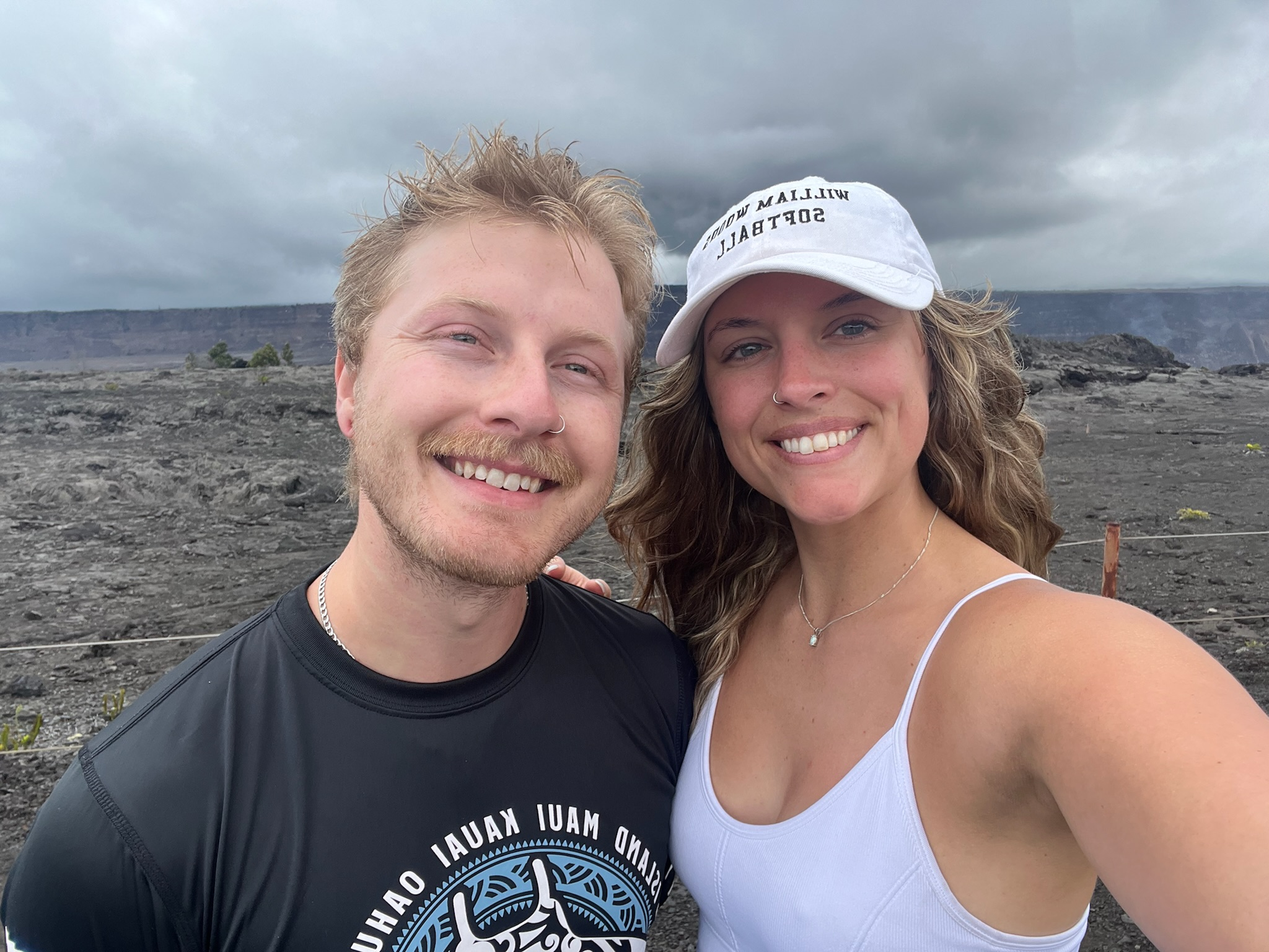
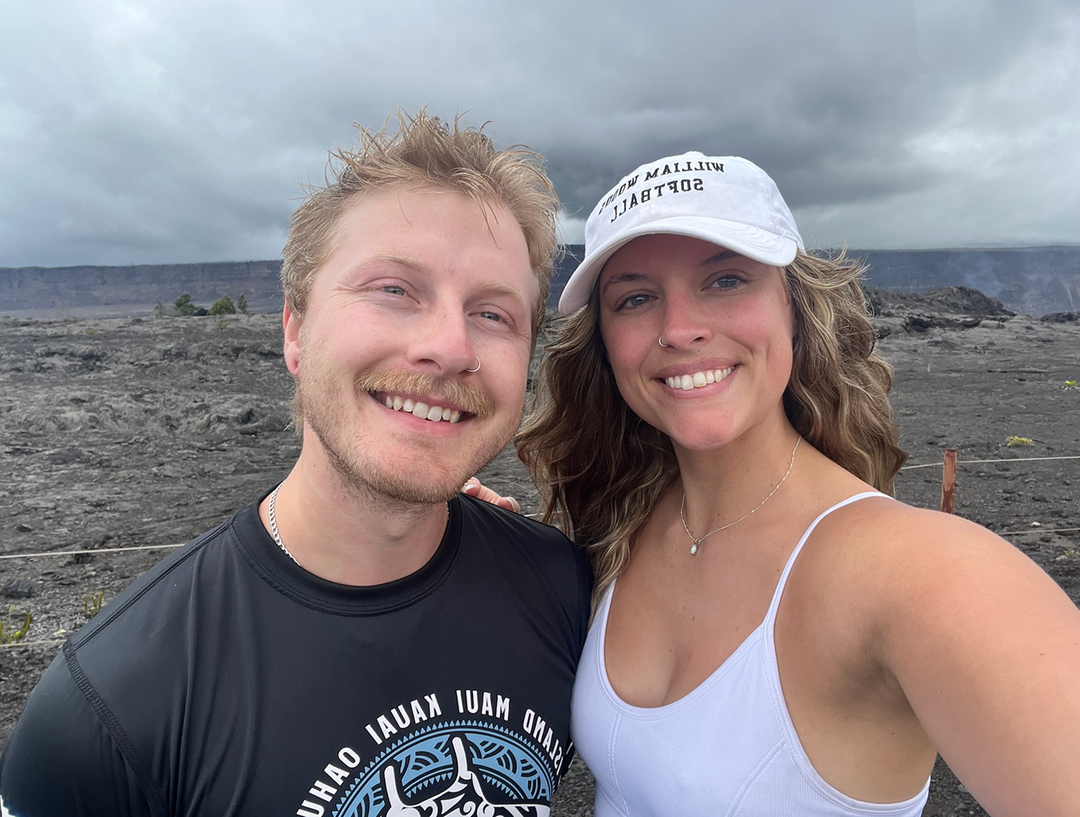
updated the second group of images again

diff --git a/src/routes/home/+page.svelte b/src/routes/home/+page.svelte
@@ -283,8 +283,8 @@ class:translate-y-0={rsvp}
                             <img src="storysnp2.png" alt="Sequoia National Park Sign" class="object-cover w-full  rounded-bl-2xl" loading="lazy"/>
                         </div>
                         <div class="grid gap-1">
-                            <img src="storybcnp.png" alt="Bryce Canyon National Park Sign" class="object-cover w-full rounded-tr-2xl" loading="lazy"/>
-                            <img src="storybcnp2.png" alt="Drew and Emma on a trail" class="object-cover w-full" loading="lazy"/>
+                            <img src="storybcnp2.png" alt="Drew and Emma on a trail" class="object-cover w-full rounded-tr-2xl" loading="lazy"/>
+                            <img src="storybcnp.png" alt="Bryce Canyon National Park Sign" class="object-cover w-full" loading="lazy"/>
                         </div>
                     </div>
                     <!-- <div bind:this={sectionRef2}></div> -->
@@ -342,11 +342,11 @@ class:translate-y-0={rsvp}
                 <div class="md:flex gap-4 items-center">
                     <div class="grid grid-cols-2 rounded-tr-2xl rounded-bl-2xl mb-4 gap-1 border border-black/20 md:w-5/12 ">
                         <div class="grid gap-1">
-                            <img src="storyhawaii.png" alt="Drew and Emma at Arches National Park" class="object-cover w-full h-full"/>
-                            <img src="storyhawaii2.png" alt="Drew and Emma at Arches National Park" class="object-cover w-full h-full rounded-bl-2xl"/>
+                            <img src="storyhawaii2.png" alt="Drew and Emma at Arches National Park" class="object-cover w-full h-full"/>
+                            <img src="storyhawaii3.png" alt="Drew and Emma at Arches National Park" class="object-cover w-full h-full rounded-bl-2xl"/>
                         </div>
                         <div class="grid gap-1">
-                            <img src="storyhawaii3.png" alt="Drew and Emma at Arches National Park" class="object-cover w-full rounded-tr-2xl h-full"/>
+                            <img src="storyhawaii.png" alt="Drew and Emma at Arches National Park" class="object-cover w-full h-full rounded-tr-2xl"/>
                             <img src="storyhawaii4.png" alt="Drew and Emma at Arches National Park" class="object-cover w-full h-full"/>
                         </div>
                     </div>
